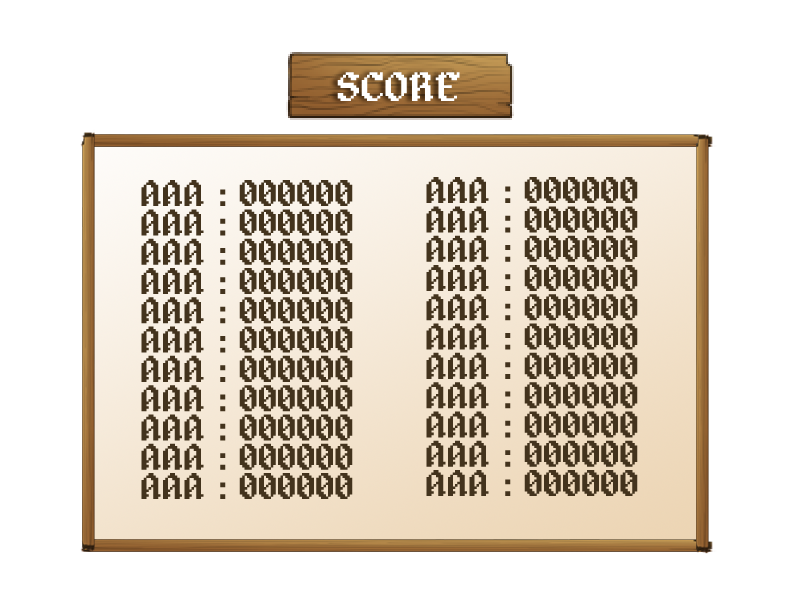
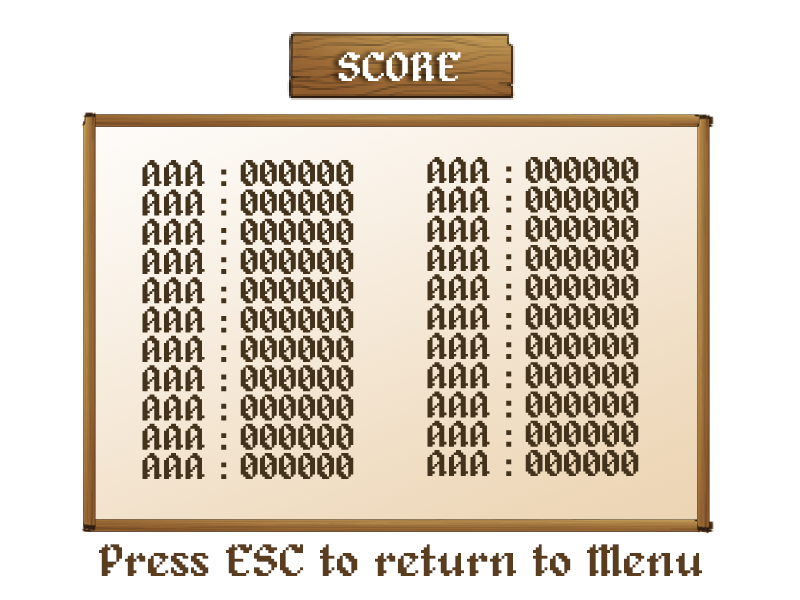
Telas Estaticas

Changed region(s): [[0.0938, 0.03, 0.9062, 0.96], [0.875, 0.63, 0.9062, 0.66]]

diff --git a/ScapegOrc/src/Jogo.java b/ScapegOrc/src/Jogo.java
@@ -26,11 +26,14 @@ public class Jogo extends Canvas {
 	private Menu menu;
 	private Pause pause;
 	private Credits credits;
+	private fase1 fase1;
+	private Score score;
 	private boolean isMenu;
 	private boolean isPause;
 	private boolean isStory;
 	private boolean isCredits;
-	
+	private boolean isScore;
+
 	private Botao botao;
 
 	public static int getScreenWidth() {
@@ -71,9 +74,14 @@ public class Jogo extends Canvas {
 		addMouseListener(new MouseInputHandler());
 
 		isPlaying = false;
-		isCredits= false;
+		isCredits = false;
 		isMenu = true;
+		isCredits = false;
 		menu = new Menu(this.getWidth(), this.getHeight());
+		fase1 = new fase1(this.getWidth(), this.getHeight());
+		pause = new Pause(this.getWidth(), this.getHeight());
+		credits = new Credits(this.getWidth(), this.getHeight());
+		score = new Score(this.getWidth(), this.getHeight());
 		isPause = false;
 
 	}
@@ -94,10 +102,13 @@ public class Jogo extends Canvas {
 
 			} else if (isCredits) {
 
-//				credits.draw(g);
+				credits.draw(g);
 
 			} else if (isPlaying) {
 
+				fase1.draw(g);
+			} else if (isScore) {
+				score.draw(g);
 			}
 
 			try {
@@ -118,15 +129,16 @@ public class Jogo extends Canvas {
 		jogo.gameLoop();
 	}
 
-	
-	private class MouseInputHandler extends MouseAdapter{
+	private class MouseInputHandler extends MouseAdapter {
 		@Override
 		public void mouseClicked(MouseEvent e) {
-			
+
 			if (isMenu) {
 
-				if (e.getX() >= menu.getExit().getPosX() && e.getX() <= menu.getExit().getPosX() + menu.getExit().getWidth()
-					&& e.getY() <= menu.getExit().getPosY()	&& e.getY() >= menu.getExit().getPosY() - menu.getExit().getHeight()) {
+				if (e.getX() >= menu.getExit().getPosX()
+						&& e.getX() <= menu.getExit().getPosX() + menu.getExit().getWidth()
+						&& e.getY() <= menu.getExit().getPosY()
+						&& e.getY() >= menu.getExit().getPosY() - menu.getExit().getHeight()) {
 					System.out.println("Sair");
 					System.exit(0);
 				} else if (e.getX() >= menu.getNewGame().getPosX()
@@ -136,9 +148,10 @@ public class Jogo extends Canvas {
 					isPlaying = true;
 					isMenu = false;
 					isCredits = false;
+					isScore= false;
 					System.out.println("Jogo");
-				
-				}else if (e.getX() >= menu.getCredits().getPosX()
+
+				} else if (e.getX() >= menu.getCredits().getPosX()
 						&& e.getX() <= menu.getCredits().getPosX() + menu.getCredits().getWidth()
 						&& e.getY() <= menu.getCredits().getPosY()
 						&& e.getY() >= menu.getCredits().getPosY() - menu.getCredits().getHeight()) {
@@ -146,61 +159,82 @@ public class Jogo extends Canvas {
 					isCredits = true;
 					isPlaying = false;
 					isMenu = false;
+					isScore= false;
+				}else if (e.getX() >= menu.getScore().getPosX()
+						&& e.getX() <= menu.getScore().getPosX() + menu.getScore().getWidth()
+						&& e.getY() <= menu.getScore().getPosY()
+						&& e.getY() >= menu.getScore().getPosY() - menu.getScore().getHeight()) {
+					System.out.println("Score");
+					isScore= true;
+					isCredits = false;
+					isPlaying = false;
+					isMenu = false;
 				}
 			}
 		}
 	}
-	
-	
-	private class KeyInputHandler extends KeyAdapter{
+
+	private class KeyInputHandler extends KeyAdapter {
 		@Override
 		public void keyPressed(KeyEvent e) {
-			
-			if(isPlaying){
-			
-			if(e.getKeyCode()== KeyEvent.VK_W){
-			
-			} else if (e.getKeyCode() == KeyEvent.VK_S){
-			
-		}
-			
-			if (e.getKeyCode() == KeyEvent.VK_O){
-			
-			} else if(e.getKeyCode() == KeyEvent.VK_L){
-		
+			System.out.println(e.getKeyCode());
+			if (isPlaying) {
+
+				if (e.getKeyCode() == KeyEvent.VK_ESCAPE) {
+					isPlaying = false;
+					isPause = true;
+				}
+			} else if (isPause) {
+				if (e.getKeyCode() == KeyEvent.VK_ESCAPE) {
+					System.exit(0);
+				} else if (e.getKeyCode() == KeyEvent.VK_SPACE) {
+					isPause = false;
+					isPlaying = true;
+				}
+
+			}else if(isMenu){
+				if (e.getKeyCode() == KeyEvent.VK_ESCAPE) {
+					System.exit(0);
+				}
+			}else if(isScore){
+				if (e.getKeyCode() == KeyEvent.VK_ESCAPE) {
+					System.out.println("TAB");
+					isMenu = true;
+					isPlaying = false;
+					isPause = false;
+					isCredits = false;
+					isScore = false;
+					
+				}
+			}else if(isCredits){
+				if (e.getKeyCode() == KeyEvent.VK_ESCAPE) {
+					System.out.println("TAB");
+					isMenu = true;
+					isPlaying = false;
+					isPause = false;
+					isCredits = false;
+					isScore = false;
+					
+				}
 			}
-			if(e.getKeyCode() == KeyEvent.VK_ESCAPE){
-				isPlaying = false;
-				isPause = true;
 		}
-	}else if(isPause){
-			if(e.getKeyCode()== KeyEvent.VK_ESCAPE){
-				System.exit(0);
-			}else if(e.getKeyCode() == KeyEvent.VK_SPACE){
-				isPause = false;
-				isPlaying = true;
-		}
-		
-		}
-	}
-		
+
 		@Override
-		public void keyReleased(KeyEvent e){
-			
-			if(e.getKeyCode()== KeyEvent.VK_W){
-		
-			} else if (e.getKeyCode() == KeyEvent.VK_S){
-		
+		public void keyReleased(KeyEvent e) {
+
+			if (e.getKeyCode() == KeyEvent.VK_W) {
+
+			} else if (e.getKeyCode() == KeyEvent.VK_S) {
+
 			}
-			
-			if (e.getKeyCode() == KeyEvent.VK_O){
-		
-			} else if(e.getKeyCode() == KeyEvent.VK_L){
-		
+
+			if (e.getKeyCode() == KeyEvent.VK_O) {
+
+			} else if (e.getKeyCode() == KeyEvent.VK_L) {
+
 			}
-			
-			
+
 		}
 	}
-	
+
 }

diff --git a/ScapegOrc/src/Menu.java b/ScapegOrc/src/Menu.java
@@ -9,25 +9,40 @@ import javax.imageio.ImageIO;
 
 public class Menu extends ElementoComImagem {
 
-	private Botao newGame ;
-	private Botao score;
-	private Botao credits;
-	private Botao exit;
+//	private Botao newGame ;
+//	private Botao score;
+//	private Botao credits;
+//	private Botao exit;
+	private BotaoTeste newGame ;
+	private BotaoTeste score;
+	private BotaoTeste credits;
+	private BotaoTeste exit;
+
 
 	
-	public Menu(int width, int height) {	
+	public Menu(int width, int height) {
 		super("resources/01 - Menu.png");
-		newGame = new Botao("resources/botao newgame.png", "New Game", width/2 , height/2 + height/6);
-		score = new Botao("resources/botao score.png", "New Game", width/2 , height/2 + height/6 +80);
-		credits = new Botao("resources/botao credits.png", "New Game",  width/2 , height/2 + height/6 +160);
-		exit = new Botao("resources/botao exit.png", "New Game",  width/2, height/2 + height/6 +240);
-//		exit.setWidth(248);
-//		exit.setHeight(50);
-
-		//imagem = loadImage("imagens/background pong.png");
-		//imagem = imagem.getScaledInstance(Jogo.getScreenWidth(), Jogo.getScreenHeight(), Image.SCALE_DEFAULT);
+		newGame = new BotaoTeste("NEW GAME",  width/2-30 , height/2 + height/6 );
+		score = new BotaoTeste("SCORE",  width/2 -30, height/2 + height/6 +80);
+		credits = new BotaoTeste("CREDITS",  width/2-30 , height/2 + height/6 +160);
+		exit = new BotaoTeste("EXIT",  width/2 -30, height/2 + height/6 +240);
 	}
 	
+	
+	
+//	public Menu(int width, int height) {	
+//		super("resources/01 - Menu.png");
+//		newGame = new Botao("resources/botao newgame.png", "New Game", width/2 , height/2 + height/6);
+//		score = new Botao("resources/botao score.png", "New Game", width/2 , height/2 + height/6 +80);
+//		credits = new Botao("resources/botao credits.png", "New Game",  width/2 , height/2 + height/6 +160);
+//		exit = new Botao("resources/botao exit.png", "New Game",  width/2, height/2 + height/6 +240);
+////		exit.setWidth(248);
+////		exit.setHeight(50);
+//
+//		//imagem = loadImage("imagens/background pong.png");
+//		//imagem = imagem.getScaledInstance(Jogo.getScreenWidth(), Jogo.getScreenHeight(), Image.SCALE_DEFAULT);
+//	}
+//	
 	
 	
 	
@@ -47,35 +62,35 @@ public class Menu extends ElementoComImagem {
 	
 	
 
-	public Botao getNewGame() {
+	public BotaoTeste getNewGame() {
 		return newGame;
 	}
 
-	public void setNewGame(Botao newGame) {
+	public void setNewGame(BotaoTeste newGame) {
 		this.newGame = newGame;
 	}
 
-	public Botao getScore() {
+	public BotaoTeste getScore() {
 		return score;
 	}
 
-	public void setScore(Botao score) {
+	public void setScore(BotaoTeste score) {
 		this.score = score;
 	}
 
-	public Botao getCredits() {
+	public BotaoTeste getCredits() {
 		return credits;
 	}
 
-	public void setCredits(Botao credits) {
+	public void setCredits(BotaoTeste credits) {
 		this.credits = credits;
 	}
 
-	public Botao getExit() {
+	public BotaoTeste getExit() {
 		return exit;
 	}
 
-	public void setExit(Botao exit) {
+	public void setExit(BotaoTeste exit) {
 		this.exit = exit;
 	}
 

diff --git a/ScapegOrc/src/Credits.java b/ScapegOrc/src/Credits.java
@@ -2,8 +2,8 @@ import java.awt.Graphics2D;
 
 public class Credits extends ElementoComImagem {
 
-	public Credits(String fileName) {
-		super("imagens/07 - credits.png");
+	public Credits(int width, int height) {
+		super("resources/07 - credits.png");
 	}
 
 	@Override

diff --git a/ScapegOrc/src/Pause.java b/ScapegOrc/src/Pause.java
@@ -10,8 +10,8 @@ public class Pause extends ElementoComImagem {
 	
 	
 	
-	public Pause(String fileName){
-		super("imagens/04 pause.png");
+	public Pause(int width, int height) {
+		super("resources/04 - pause.png");
 		
 		
 	}
